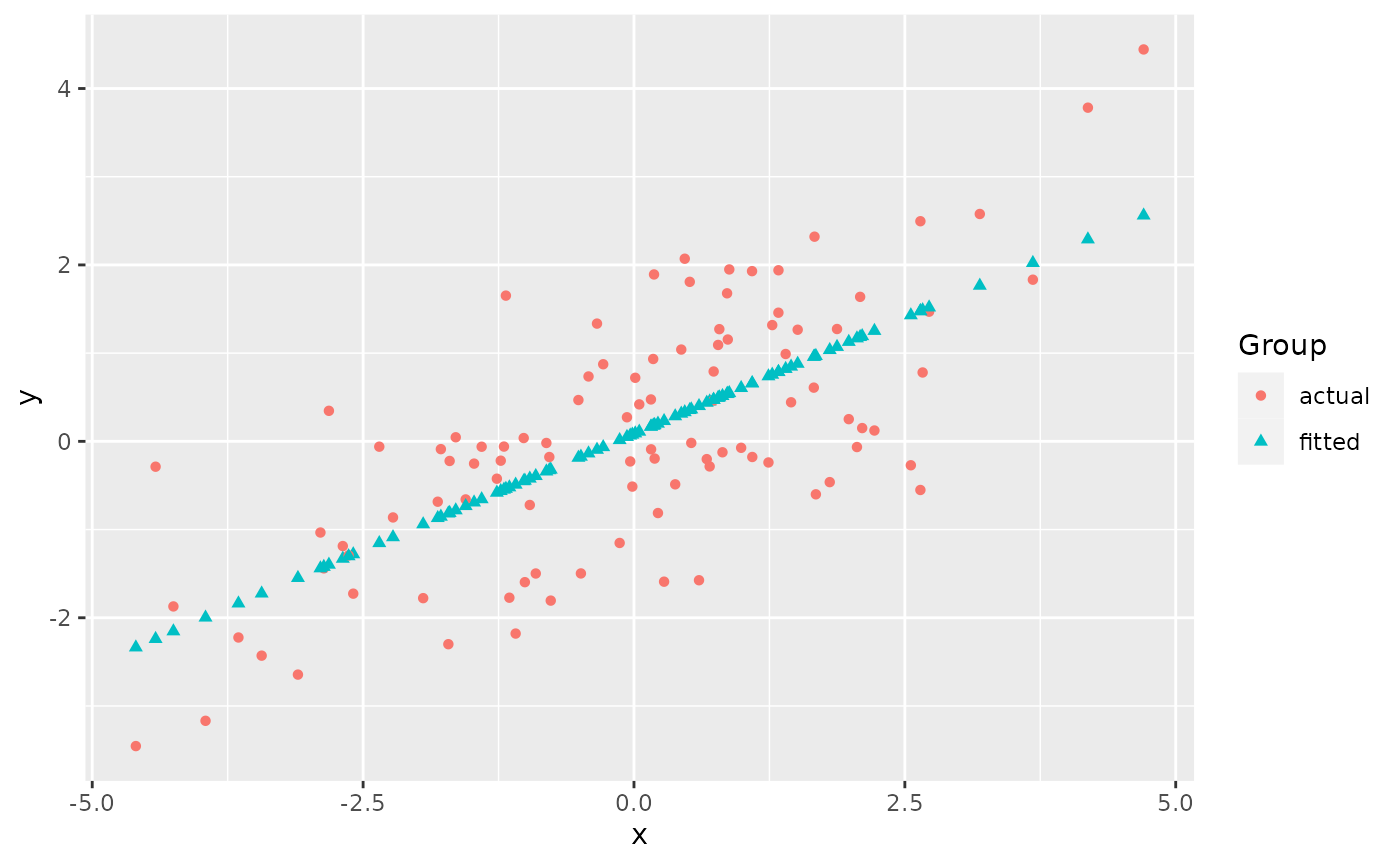
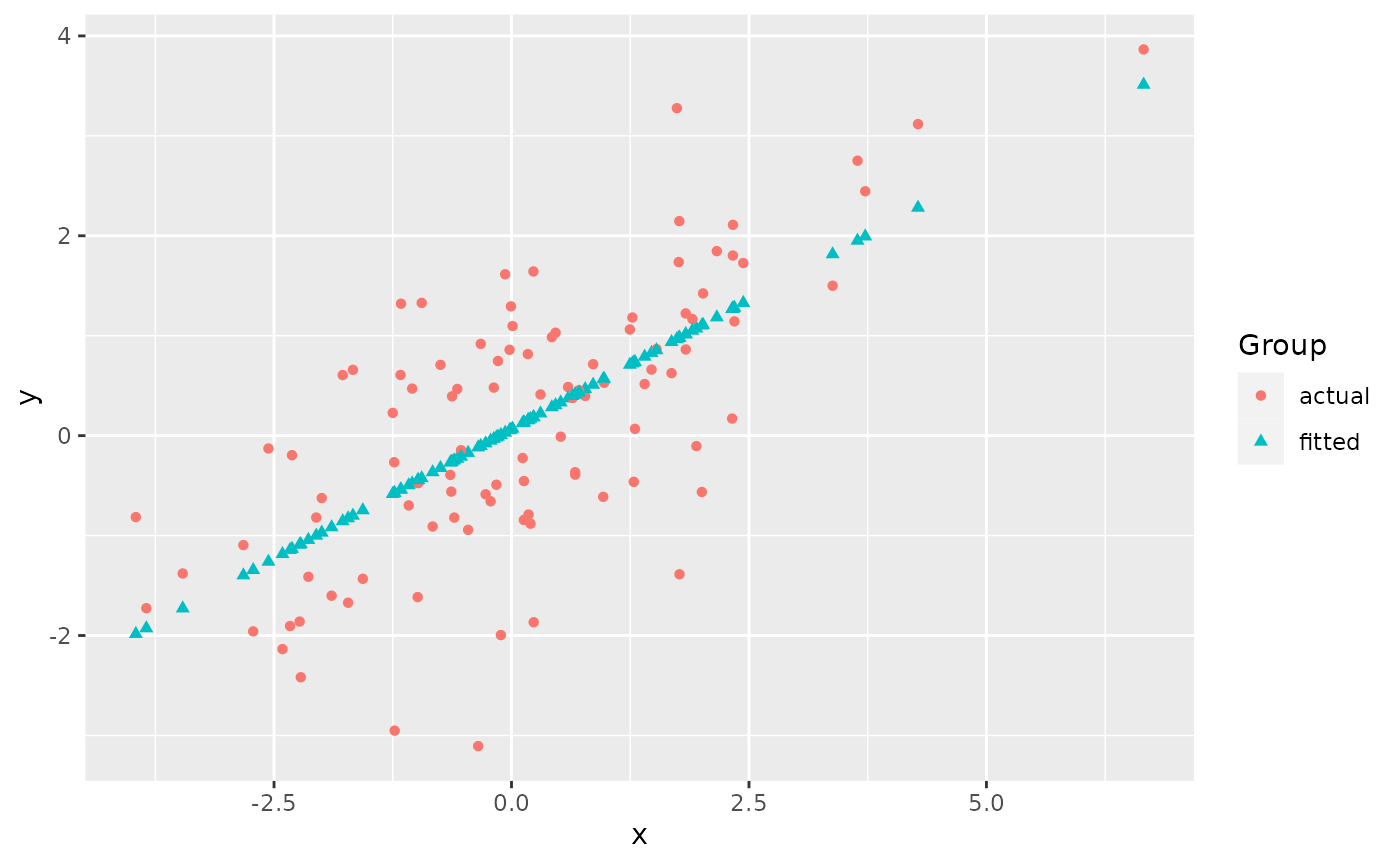
Built site for ggmatplot: 0.1.0@ba97ea2

diff --git a/articles/ggmatplot.html b/articles/ggmatplot.html
@@ -101,7 +101,7 @@
 <span class="va">x</span> <span class="op">&lt;-</span> <span class="fu"><a href="https://rdrr.io/r/base/c.html">c</a></span><span class="op">(</span><span class="fu"><a href="https://rdrr.io/r/stats/Normal.html">rnorm</a></span><span class="op">(</span><span class="fl">100</span>, sd <span class="op">=</span> <span class="fl">2</span><span class="op">)</span><span class="op">)</span>
 
 <span class="fu"><a href="https://rdrr.io/r/utils/head.html">head</a></span><span class="op">(</span><span class="va">x</span><span class="op">)</span>
-<span class="co">#&gt; [1]  1.3330286 -1.0177849 -0.9064295  1.2759955  3.6815616  2.1062166</span>
+<span class="co">#&gt; [1]  3.6426071  1.4740272 -1.2300122 -0.6441279 -1.8939179  1.8345346</span>
 
 <span class="co"># matrix z</span>
 <span class="va">y</span> <span class="op">&lt;-</span> <span class="va">x</span> <span class="op">*</span> <span class="fl">0.5</span> <span class="op">+</span> <span class="fu"><a href="https://rdrr.io/r/stats/Normal.html">rnorm</a></span><span class="op">(</span><span class="fl">100</span>, sd <span class="op">=</span> <span class="fl">1</span><span class="op">)</span>
@@ -110,13 +110,13 @@
            fitted <span class="op">=</span> <span class="va">fit.y</span><span class="op">)</span>
 
 <span class="fu"><a href="https://rdrr.io/r/utils/head.html">head</a></span><span class="op">(</span><span class="va">z</span><span class="op">)</span>
-<span class="co">#&gt;        actual     fitted</span>
-<span class="co">#&gt; 1  1.45844157  0.7861689</span>
-<span class="co">#&gt; 2  0.03730872 -0.4514076</span>
-<span class="co">#&gt; 3 -1.49816983 -0.3927850</span>
-<span class="co">#&gt; 4  1.31798054  0.7561440</span>
-<span class="co">#&gt; 5  1.83264641  2.0225449</span>
-<span class="co">#&gt; 6  0.15044992  1.1932107</span></code></pre></div>
+<span class="co">#&gt;       actual     fitted</span>
+<span class="co">#&gt; 1  2.7512611  1.9513781</span>
+<span class="co">#&gt; 2  0.6612367  0.8280013</span>
+<span class="co">#&gt; 3 -2.9514021 -0.5727566</span>
+<span class="co">#&gt; 4 -0.3929319 -0.2692543</span>
+<span class="co">#&gt; 5 -1.6016800 -0.9166758</span>
+<span class="co">#&gt; 6  0.8624170  1.0147528</span></code></pre></div>
 <p><code>ggmatplot</code> plots vector <code>x</code> against each column of matrix <code>z</code> using the default <code>plot_type = "point"</code>. This will be represented on the resulting plot as two groups, identified using different shapes and colors.</p>
 <div class="sourceCode" id="cb2"><pre class="downlit sourceCode r">
 <code class="sourceCode R"><span class="kw"><a href="https://rdrr.io/r/base/library.html">library</a></span><span class="op">(</span><span class="va"><a href="https://github.com/xuan-liang/ggmatplot">ggmatplot</a></span><span class="op">)</span>
